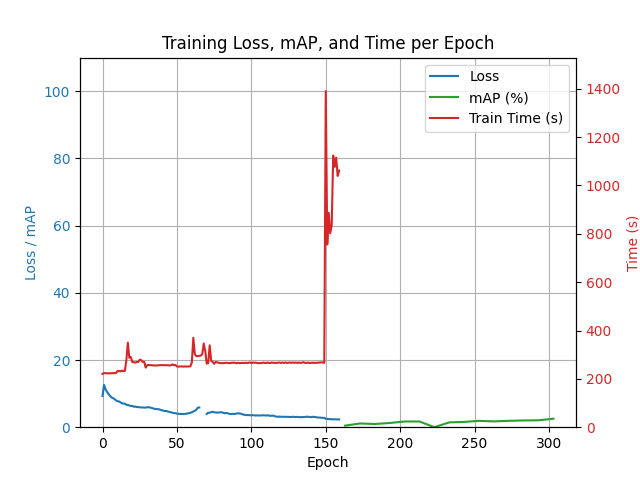
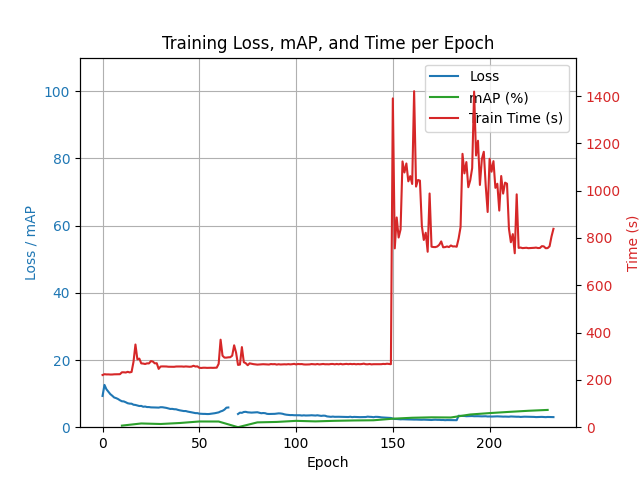
idk

diff --git a/YOLOv1/utils.py b/YOLOv1/utils.py
@@ -133,7 +133,7 @@ def batch_to_mAP_list(preds: torch.Tensor, targets: torch.Tensor):
     return preds_list, targets_list
 
 
-def plot_training_metrics(train_losses, map_scores, train_times, start_epoch, model_name, save_dir="images"):
+def plot_training_metrics(train_losses, map_scores, train_times, model_name, save_dir="images"):
     os.makedirs(f"{save_dir}/{model_name}", exist_ok=True)
 
     fig, ax1 = plt.subplots()
@@ -142,8 +142,8 @@ def plot_training_metrics(train_losses, map_scores, train_times, start_epoch, mo
     ax1.plot(train_losses, label='Loss', color='tab:blue')
     if map_scores:
         map_epochs = list(range(
-            start_epoch + config.EVAL_INTERVAL,
-            start_epoch + config.EVAL_INTERVAL + config.EVAL_INTERVAL * len(map_scores),
+            config.EVAL_INTERVAL,
+            config.EVAL_INTERVAL + config.EVAL_INTERVAL * len(map_scores),
             config.EVAL_INTERVAL
         ))
         ax1.plot(map_epochs, [s * 100 for s in map_scores], label='mAP (%)', color='tab:green')

diff --git a/YOLOv1/loss.py b/YOLOv1/loss.py
@@ -45,8 +45,8 @@ class YOLOLoss(nn.Module):
         loss += lambda_coord * torch.sum(obj_ij.float() * (gnd_truth[..., 1] - preds[..., 1]) ** 2)
 
         # w,h loss no sqrt
-        loss += lambda_coord * torch.sum(obj_ij.float() * (torch.sqrt(torch.exp(gnd_truth[..., 2])) - torch.sqrt(torch.exp(preds[..., 2]))) ** 2)
-        loss += lambda_coord * torch.sum(obj_ij.float() * (torch.sqrt(torch.exp(gnd_truth[..., 3])) - torch.sqrt(torch.exp(preds[..., 3]))) ** 2)
+        loss += lambda_coord * torch.sum(obj_ij.float() * (torch.sqrt(torch.exp(gnd_truth[..., 2])) - torch.sqrt(torch.exp(torch.clamp(preds[..., 2], max=3)))) ** 2)
+        loss += lambda_coord * torch.sum(obj_ij.float() * (torch.sqrt(torch.exp(gnd_truth[..., 3])) - torch.sqrt(torch.exp(torch.clamp(preds[..., 3], max=3)))) ** 2)
 
         ## Confidence Loss
 

diff --git a/YOLOv1/view_img_bbox.py b/YOLOv1/view_img_bbox.py
@@ -27,7 +27,7 @@ print(f"Using device: {device}, show_gt={SHOW_GT}")
 
 # Load model
 model = YOLOv1ResNet().to(device)
-state = torch.load("checkpoints/YOLOv1ResNet/best_model.pth", map_location=device)
+state = torch.load("checkpoints/YOLOv1ResNet/last_model.pth", map_location=device)
 model.load_state_dict(state["model_state_dict"])
 model.eval()
 
@@ -142,6 +142,7 @@ def draw_image(idx):
         ax.text(x1, y1 - 5,
                 f"{config.VOC_CLASSES[cls]}:{score:.2f}",
                 color='white', backgroundcolor='g', fontsize=8)
+        print(config.VOC_CLASSES[cls])
 
     plt.title(f"{'Gnd Truth (Red), ' if SHOW_GT else ''}Predictions (Green)")
     fig.canvas.draw()

diff --git a/YOLOv1/train.py b/YOLOv1/train.py
@@ -73,7 +73,7 @@ def main():
     # Resume from checkpoint
     start_epoch = 0
     best_loss = float('inf')
-    ckpt_path = f"checkpoints/{args.model}/best_model.pth"
+    ckpt_path = f"checkpoints/{args.model}/last_model.pth"
     if os.path.exists(ckpt_path):
         ckpt = torch.load(ckpt_path, map_location=device)
         model.load_state_dict(ckpt['model_state_dict'])
@@ -170,7 +170,7 @@ def main():
         }, metrics_path)
 
         # Plot metrics
-        plot_training_metrics(train_losses, map_scores, train_times, start_epoch, args.model)
+        plot_training_metrics(train_losses, map_scores, train_times, args.model)
 
 
 if __name__ == '__main__':

diff --git a/YOLOv1/view_metrics.py b/YOLOv1/view_metrics.py
@@ -13,7 +13,6 @@ assert os.path.exists(metrics_path), "No saved metrics found."
 metrics = torch.load(metrics_path)
 train_losses = metrics['losses']
 map_scores = metrics['mAP']
-train_times = metrics['train_times']
-start_epoch = 0  # or load from checkpoint if resuming
-plot_training_metrics(train_losses, map_scores, train_times, start_epoch, model_name)
+train_times = metrics['times']
+plot_training_metrics(train_losses, map_scores, train_times, model_name)
 print(map_scores)

diff --git a/YOLOv1/model.py b/YOLOv1/model.py
@@ -133,6 +133,10 @@ class YOLOv1ResNet(nn.Module):
         for param in backbone.layer4.parameters():
             param.requires_grad = True
 
+        # Adding this after 200 epochs
+        for param in backbone.layer3.parameters():
+            param.requires_grad = True
+
         # Delete last two layers and attach detection layers
         backbone.avgpool = nn.Identity()
         backbone.fc = nn.Identity()

diff --git a/YOLOv1/README.md b/YOLOv1/README.md
@@ -13,5 +13,13 @@ DeiT on PASCAL VOC: https://www.ecva.net/papers/eccv_2024/papers_ECCV/papers/115
 # YOLOv1ResNet Notes
 
 1. Used pretrained ResNet50 as backbone. Detector as normal without dropout
-2. Trained for 150 epochs with frozen backbone
-3. Trained for \_\_\_ epochs with last backbone layer unfrozen and boosting loss for classification
+2. Trained for 150 epochs with frozen backbone @ LR=1e-4
+3. Trained for 30 epochs with last backbone layer unfrozen and LAMBDA_CLS=2 @ LR=1e-4
+4. Trained for 20 epochs with last backbone layer unfrozen and LAMBDA_CLS=50 @ LR=1e-2
+5. Trained for 25 epochs last last two backbone layers unfrozen. LAMBDA_CLS=50 @ LR=1e-2
+
+# Next Steps
+
+1. Train ResNet18 as classification
+2. Unfreeze top two layers and attach head
+3. Train
